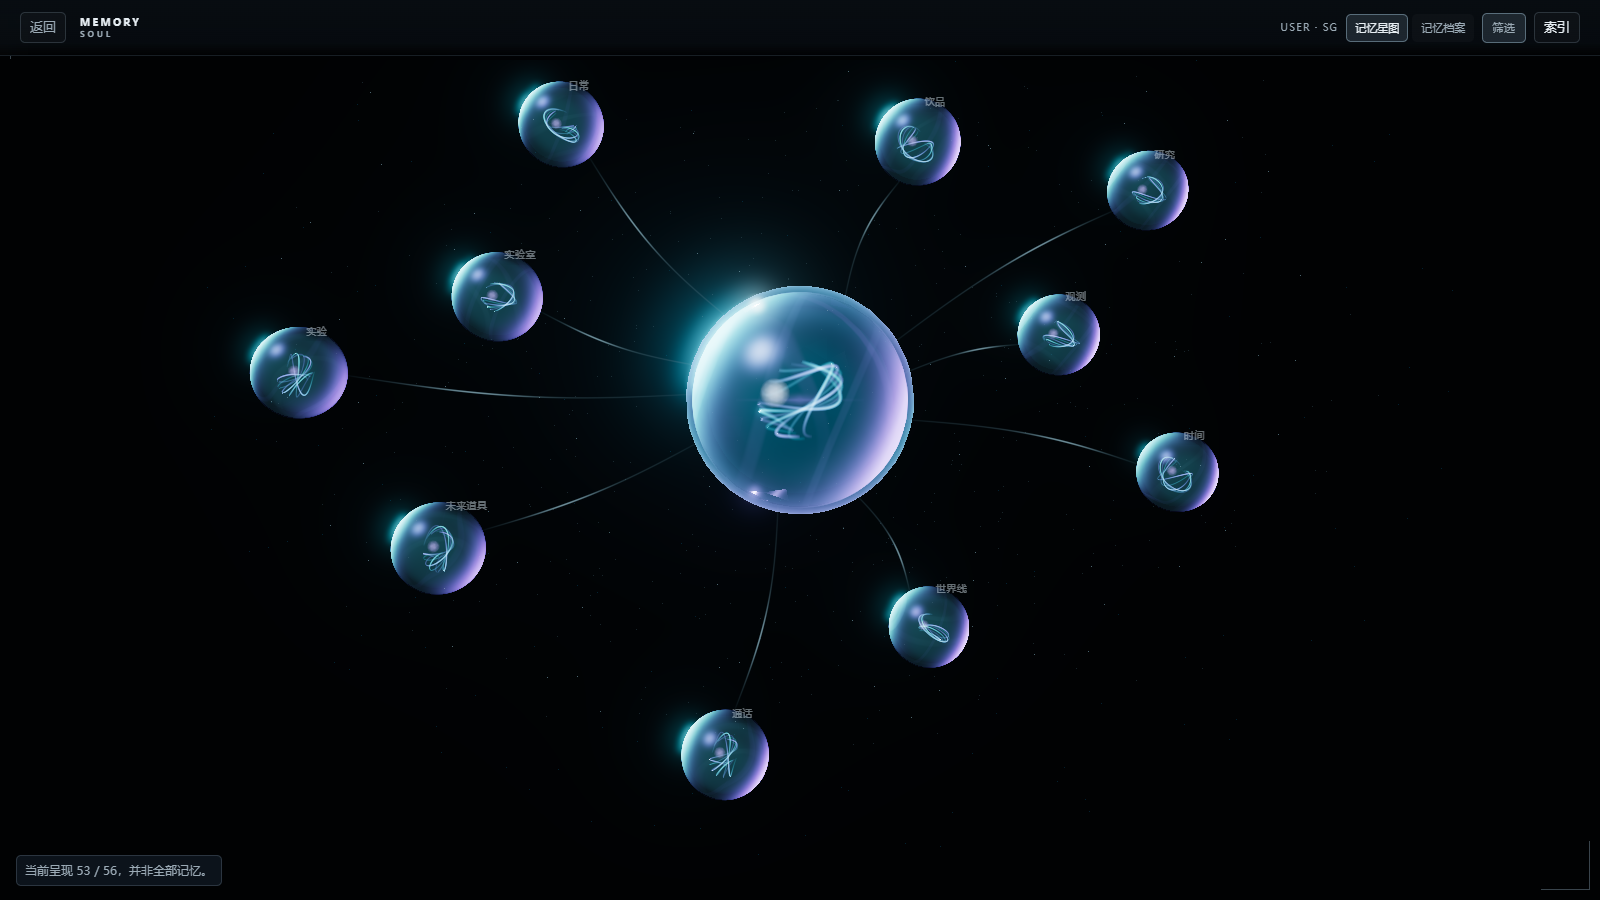
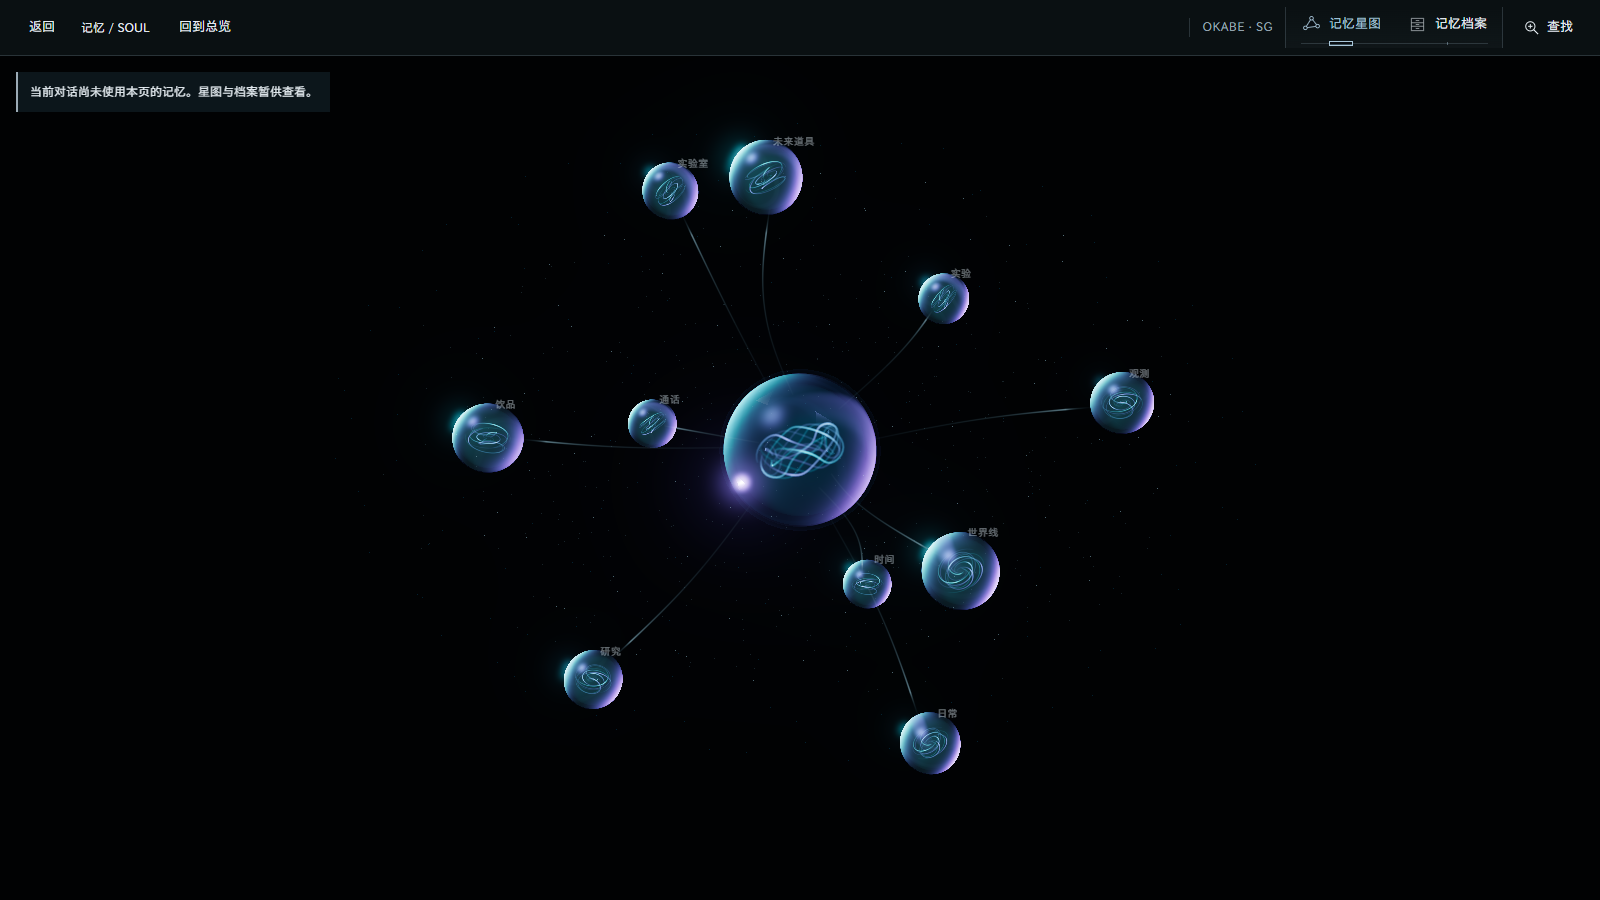
换上新转场动画和新版记忆星图，README 顺便唠两句

diff --git a/README.md b/README.md
@@ -2,7 +2,7 @@
 
 一个可以在自己电脑上和牧濑红莉栖说话的桌面应用。
 
-她用日语回答你，屏幕上同时有中文字幕。她会记住你们聊过的事，而那些记忆你看得见，也删得掉。她可以活在两条世界线上：**STEINS;GATE** 和 **β**。两边的对话、记忆互不相通，界面也各是各的样子。
+她使用日语回答，屏幕上同时有中文字幕。她会记住你们聊过的事，记忆在星图中，能看得见，也删得掉。（Amadeus的人格设定基本上就是参考官方小说和相关资料）本项目共有两条世界线：**STEINS;GATE** 和 **β**。两边的对话、记忆互不相通，界面也各是各的样子。（sg线相当于是架空的，在现实中红莉栖还活着的情况下，诞生的Amadeus；加了些设定，你在sg线提到真实红莉栖，Amadeus还会争风吃醋，嘿嘿。）
 
 这是一个粉丝作品，和官方没有任何关系。
 
@@ -11,23 +11,26 @@
 | | |
 |---|---|
 | ![SG 世界线的对话](assets/screenshots/sg-chat.png) | ![β 世界线的对话](assets/screenshots/beta-chat.png) |
-| ![世界线跃迁](assets/screenshots/worldline-shift.png) | ![SG 世界线的记忆星图](assets/screenshots/memory-star-map.png) |
+| ![世界线跃迁（新转场动画原型）](assets/screenshots/worldline-shift.png) | ![SG 世界线的记忆星图](assets/screenshots/memory-star-map.png) |
 
-*截图未加载原作素材包，舞台位置显示的是占位画面。*
+*截图未加载原作素材包，舞台位置显示的是占位画面。世界线跃迁那张是新转场动画的原型截帧，尚未接入应用；记忆星图里是测试数据。*
 
 ## 现在做到哪了
 
-还在早期开发中，**目前只能用开发模式运行，没有安装包。** 主要在 Windows 上开发和测试。
+实际已经开发了大约三个月。一开始没考虑到版权问题，所以另开了这个仓库公开，这里的提交历史比实际开发时间短。
+
+旧版界面（工作站界面重构之前）有 Windows 安装包，暂时还没放到这个仓库；**重构后的新界面目前只能用开发模式运行。** 主要在 Windows 上开发和测试。
 
 已经能用的：
 
 - 和她用日语多轮对话，中文字幕逐句跟上
+- 用红莉栖的声音念出她的回答（需要另外跑 GPT-SoVITS，见下面「语音」）
 - 在 SG 和 β 两条世界线之间跃迁，各自保留会话和草稿
 - 长期记忆：随时查看她记住了什么，不想让她记得的可以删掉
 - 接入你自己的大模型：DeepSeek、智谱 GLM，或任何兼容 OpenAI 接口的服务（包括本地模型）
 - 可选的联网搜索
 
-还没有的：安装包、自带的语音模型、完整的首次启动引导。界面也还在持续打磨。
+还没有的：新界面的安装包、完整的首次启动引导。界面也还在持续打磨。
 
 ## 运行
 
@@ -53,7 +56,7 @@ npm run dev
 
 第一次安装依赖会比较慢，记忆功能要用到的模型会在第一次运行时下载。
 
-**登录口令**是一句你应该听过的话：`Gott würfelt nicht`。
+**登录口令**是：`Gott würfelt nicht`。（算是原作的一个小彩蛋吧，后续我也会做些调整）
 
 进去以后，从右上角的「系统」打开「连接」，填上你的 API 密钥，保存。连接测试通过后，就可以开始说话了。
 
@@ -70,13 +73,17 @@ npm run dev
 
 本仓库**不包含**任何原作素材，比如立绘、CG、Logo、BGM。没有素材包也能正常使用，界面会换成自制画面。
 
-如果你有素材包，把它放到数据目录下的 `asset-pack/amadeus-original/`（根目录里要有 `manifest.json`），重启后端就能加载。素材包单独分发，并附有自己的声明。
+如果你有素材包，把它放到数据目录下的 `asset-pack/amadeus-original/`（根目录里要有 `manifest.json`），重启后端就能加载。素材包单独分发，并附有自己的声明。（版权问题，目前的解法就只能是素材包了）
 
 ## 语音
 
-语音是可选功能，本仓库不附带任何声音模型或参考音频。没有语音时，她的话照常以文字显示。
+语音是可选功能。没有语音时，她的话照常以文字显示。
 
-首次使用麦克风时，会从 [sherpa-onnx 的 GitHub 发布](https://github.com/k2-fsa/sherpa-onnx/releases/tag/asr-models)下载 SenseVoice int8 模型包（约 163 MB）和 Silero VAD（约 644 KB），保存在数据目录的 `models/speech/`。下载经固定 SHA-256 校验后才使用。SenseVoice 权重采用 FunASR Model Open Source License v1.1，Silero VAD 为 MIT；更多依赖许可见[第三方说明](THIRD_PARTY_NOTICES.md)。
+**语音合成**用的是 [GPT-SoVITS](https://github.com/RVC-Boss/GPT-SoVITS)，声音模型是 Hugging Face 上 bysq 训练的 [TTS-KurisuMakise](https://huggingface.co/bysq/TTS-KurisuMakise)（GPT-SoVITS v2pro，Apache-2.0）。本仓库不附带模型权重和参考音频，需要自己下载。（参考音频我本地是有的，但是考虑到版权的问题，总之，这些阻力，我后续开发都会尽量解决）
+
+在本机启动 GPT-SoVITS 的 API 服务后，后端会自动连上（默认 `http://127.0.0.1:9880`，可用 `SOVITS_URL` 改）。把 `SOVITS_GPT_WEIGHTS` 和 `SOVITS_SOVITS_WEIGHTS` 设为两个权重文件的路径，后端连接时会自动加载。
+
+**语音识别**：首次使用麦克风时，会从 [sherpa-onnx 的 GitHub 发布](https://github.com/k2-fsa/sherpa-onnx/releases/tag/asr-models)下载 SenseVoice int8 模型包（约 163 MB）和 Silero VAD（约 644 KB），保存在数据目录的 `models/speech/`。下载经固定 SHA-256 校验后才使用。SenseVoice 权重采用 FunASR Model Open Source License v1.1，Silero VAD 为 MIT；更多依赖许可见[第三方说明](THIRD_PARTY_NOTICES.md)。（其实这个前端页面还没做，哈哈）
 
 已有本地模型时，可用 `SENSEVOICE_MODEL` 指定 ONNX 文件或模型目录，`SENSEVOICE_TOKENS` 指定词表，`AMADEUS_VAD_MODEL` 指定 Silero ONNX 文件。
 
@@ -88,6 +95,10 @@ npm run dev
 
 《STEINS;GATE》《STEINS;GATE 0》及其中的角色、名称和原作素材，权利属于 MAGES. Inc. 与相关权利人。本仓库不包含这些素材，项目也不用于任何商业目的。如果权利人提出要求，我们会及时处理。
 
----
+## 个人的碎碎念吧
 
-*El Psy Kongroo.*
+因为一直是个人开发，中途的困难挫折也有很多，目前最棘手的应该就是版权问题了，但是我尽量在1个月左右推送首个MVP安装包。（尽量不鸽）
+
+okeydokey，大概就是这些，那么来句帅气的收尾吧：El Psy Kongroo.
+
+---
